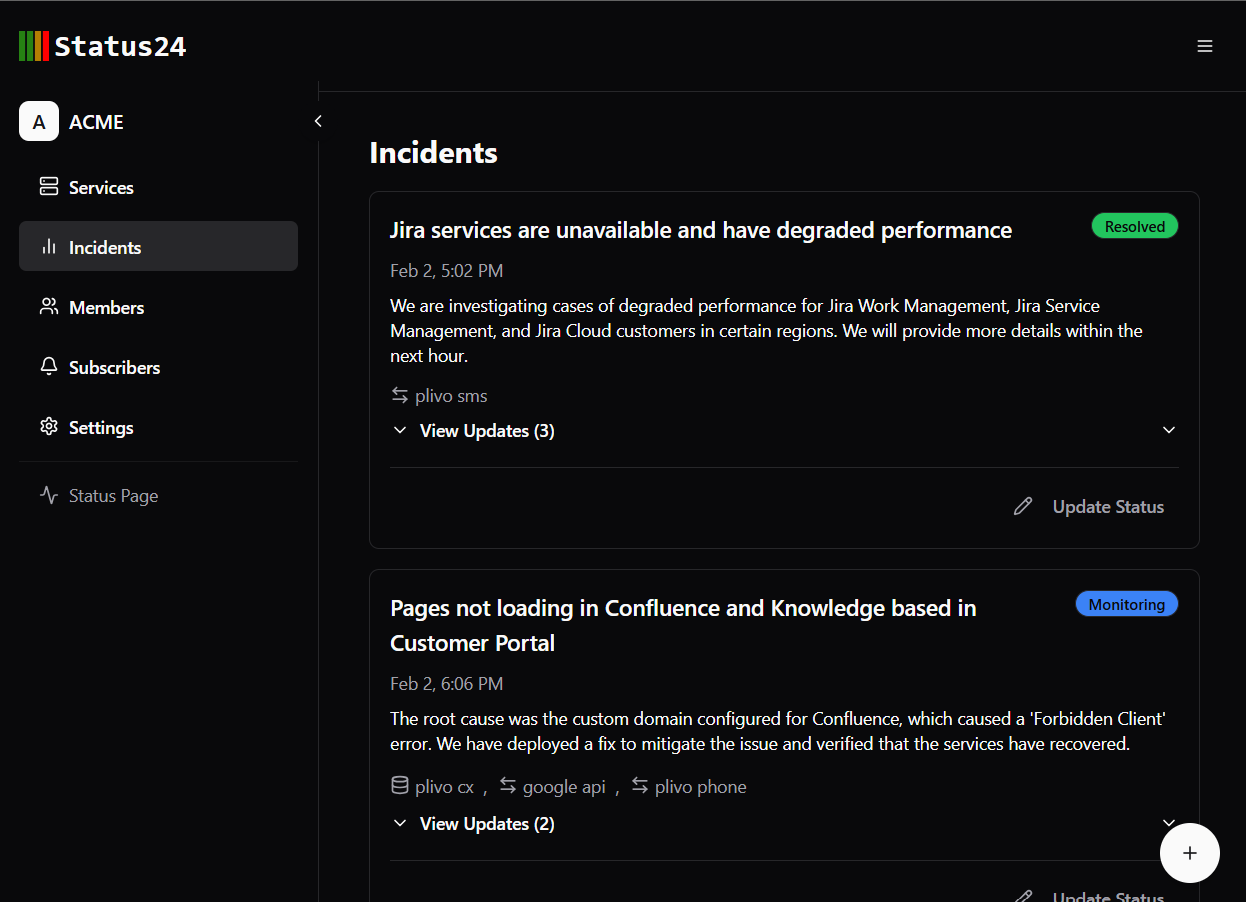
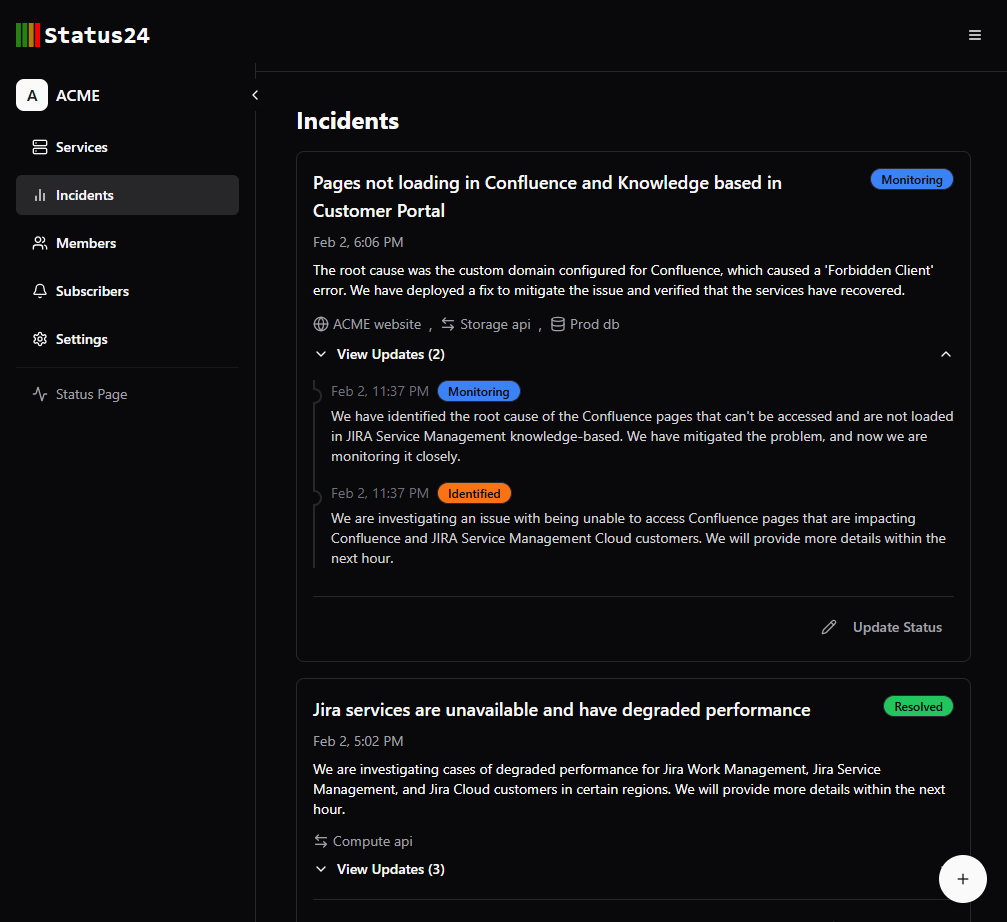
Affected services in public page

diff --git a/frontend/src/Public/Status.jsx b/frontend/src/Public/Status.jsx
@@ -1,4 +1,4 @@
-import { useEffect, useState } from "react";
+import React, { useEffect, useState } from "react";
 import { firestore as db } from '../firebase';
 import { Badge } from "@/components/ui/badge";
 import { collection, query, where, getDocs, doc, getDoc, onSnapshot } from "firebase/firestore";
@@ -30,6 +30,12 @@ const incidentStatusColors = {
   'identified': 'bg-orange-500',
   'monitoring': 'bg-blue-500',
   'resolved': 'bg-green-500'
+};
+
+const ServiceIcon = {
+  db: Database,
+  website: Globe,
+  api: ArrowLeftRight,
 };
 
 // Add this helper function for formatting dates
@@ -140,7 +146,11 @@ export default function Status({ orgId }) {
       <div className="space-y-6 max-w-4xl mx-auto">
         {incidents
           .sort((a, b) => (b.createdAt?.seconds || 0) - (a.createdAt?.seconds || 0))
-          .map((incident) => (
+          .map((incident) => {
+            const affectedServices = incident.affectedServices?.map(serviceId => 
+              services.find(s => s.id === serviceId)
+            ).filter(Boolean) || [];
+            return (
             <div 
               key={incident.id} 
               className="border border-zinc-800 rounded-lg p-6 space-y-4"
@@ -154,13 +164,32 @@ export default function Status({ orgId }) {
                 </div>
                 <Badge 
                   variant={incident.status}
-                  className={`${incidentStatusColors[incident.status]} text-background`}
+                  className={`${incidentStatusColors[incident.status]} text-background capitalize`}
                 >
                   {incident.status.replace(/_/g, ' ')}
                 </Badge>
               </div>
               
               <p className="text-zinc-400">{incident.description}</p>
+
+              {affectedServices.length > 0 && (
+                <div className="flex flex-wrap gap-2">Affected Services :
+                  {affectedServices.map((service, index) => {
+                    const Icon = ServiceIcon[service.type];
+                    return (
+                      <React.Fragment key={service.id}>
+                        <div className="flex items-center gap-1 text-sm text-muted-foreground">
+                          {Icon && <Icon className="h-4 w-4" />}
+                          <span>{service.name}</span>
+                        </div>
+                        {index < affectedServices.length - 1 && (
+                          <span className="text-muted-foreground">,</span>
+                        )}
+                      </React.Fragment>
+                    );
+                  })}
+                </div>
+              )}
               
               {incident.messages && (
                 <div className="mt-6 space-y-4">
@@ -176,12 +205,16 @@ export default function Status({ orgId }) {
                             </span>
                             <Badge 
                               variant={message.status} 
-                              className={`${incidentStatusColors[message.status]} text-background`}
+                              className={`${incidentStatusColors[message.status]} text-background capitalize`}
                             >
                               {message.status.replace(/_/g, ' ')}
                             </Badge>
                           </div>
                           <p className="text-sm text-zinc-300">{message.message}</p>
+                          {affectedServices.length > 0 && (
+                <div className="flex flex-wrap gap-2">
+                </div>
+              )}
                         </div>
                     ))}
                   </div>
@@ -194,7 +227,7 @@ export default function Status({ orgId }) {
                 )}
               </div>
             </div>
-        ))}
+          )})}
       </div>
     </div>
   );
